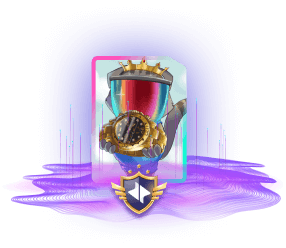
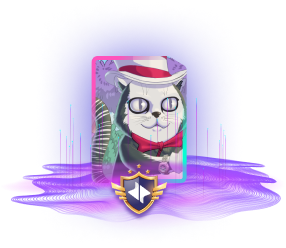
updated pic and title

Changed region(s): [[0.3077, 0.2258, 0.6713, 0.7621]]

diff --git a/src/screens/Marketplace/Marketplace.js b/src/screens/Marketplace/Marketplace.js
@@ -1258,11 +1258,9 @@ const Marketplace = ({
                         </div>
                         <div className="d-flex flex-column gap-2 mb-3">
                         <h6 className="newminttitlehome m-0 position-relative">
-                          CAWS
+                          CAWS Timepiece
                         </h6>
-                        <h6 className="newminttitlehome m-0 position-relative">
-                          Timepiece
-                        </h6>
+                        
                         </div>
                         <div className="d-flex flex-column gap-4 p-3 pt-xxl-0 pt-lg-0 col-12 col-md-9 col-lg-7  justify-content-between align-items-start position-relative">
                           <div className="mint-benefits-grid">
